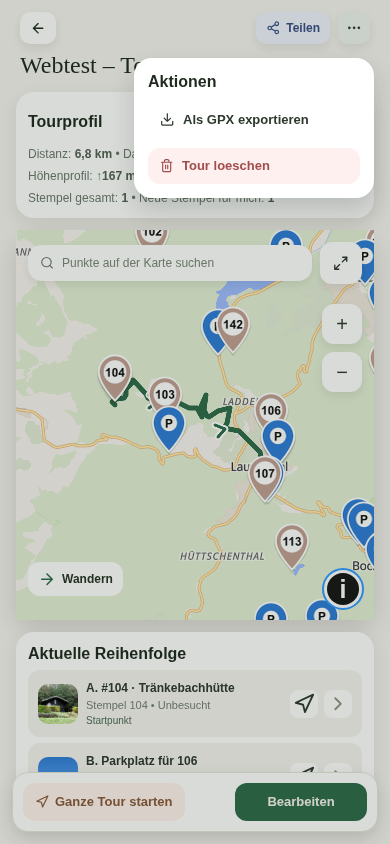
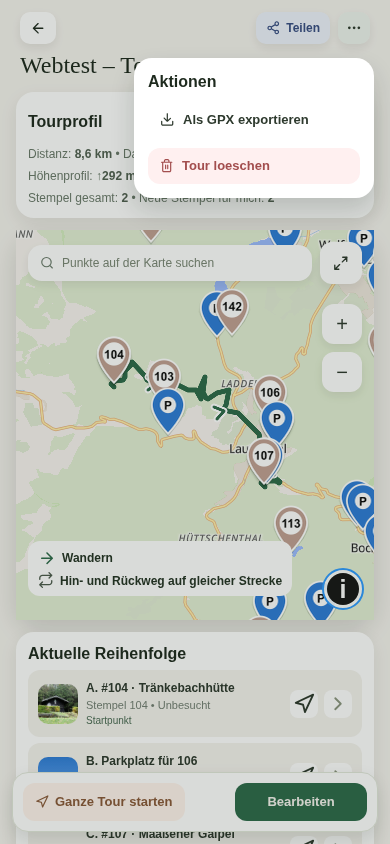
feat(app): Choose connected route or individual stages for GPX export

diff --git a/app/components/tour-gpx-export.tsx b/app/components/tour-gpx-export.tsx
@@ -1,19 +1,22 @@
 import React, { useState } from 'react';
 import { Feather } from '@expo/vector-icons';
-import { Alert, Pressable, StyleSheet, Text } from 'react-native';
+import { Alert, Pressable, StyleSheet, Text, View } from 'react-native';
 import type { TourPathEntry } from '@/lib/api';
-import { buildTourGpx } from '@/lib/tour-gpx';
+import { buildTourGpx, type TourGpxMode } from '@/lib/tour-gpx';
 import { shareGpx } from '@/lib/share-gpx';
 
 export function TourGpxExport({ name, path, disabled = false, onExported }: {
   name: string; path: TourPathEntry[]; disabled?: boolean; onExported?: () => void;
 }) {
   const [busy, setBusy] = useState(false);
-  async function handleExport() {
+  const [choosing, setChoosing] = useState(false);
+  async function handleExport(mode: TourGpxMode) {
+    if (busy || disabled) return;
     setBusy(true);
     try {
-      const file = buildTourGpx(name, path);
+      const file = buildTourGpx(name, path, mode);
       await shareGpx(file.fileName, file.content);
+      setChoosing(false);
       onExported?.();
     } catch (error) {
       Alert.alert('GPX-Export nicht möglich', error instanceof Error ? error.message : 'Bitte versuche es erneut.');
@@ -21,9 +24,29 @@ export function TourGpxExport({ name, path, disabled = false, onExported }: {
       setBusy(false);
     }
   }
+  if (choosing) return <View style={styles.choices}>
+    <Text style={styles.question}>Wie möchtest du exportieren?</Text>
+    <Pressable accessibilityRole="button" accessibilityLabel="Verbundene Route"
+      disabled={disabled || busy} accessibilityState={{ disabled: disabled || busy, busy }}
+      onPress={() => void handleExport('connected')} style={[styles.choice, (disabled || busy) && styles.disabled]}>
+      <Text style={styles.label}>Verbundene Route</Text>
+      <Text style={styles.description}>Eine Tour mit allen Etappen, inklusive Autofahrten. Lücken werden direkt verbunden.</Text>
+    </Pressable>
+    <Pressable accessibilityRole="button" accessibilityLabel="Einzelne Etappen"
+      disabled={disabled || busy} accessibilityState={{ disabled: disabled || busy, busy }}
+      onPress={() => void handleExport('stages')} style={[styles.choice, (disabled || busy) && styles.disabled]}>
+      <Text style={styles.label}>Einzelne Etappen</Text>
+      <Text style={styles.description}>Jede Etappe als eigene Tour in einer GPX-Datei.</Text>
+    </Pressable>
+    {busy ? <Text accessibilityLiveRegion="polite" style={styles.description}>Exportiert …</Text> : null}
+    <Pressable accessibilityRole="button" accessibilityLabel="GPX-Export abbrechen"
+      disabled={busy} onPress={() => setChoosing(false)} style={styles.button}>
+      <Text style={styles.label}>Abbrechen</Text>
+    </Pressable>
+  </View>;
   return <Pressable accessibilityRole="button" accessibilityLabel="Tour als GPX exportieren"
     accessibilityState={{ disabled: disabled || busy, busy }} disabled={disabled || busy}
-    onPress={() => void handleExport()} style={[styles.button, (disabled || busy) && styles.disabled]}>
+    onPress={() => setChoosing(true)} style={[styles.button, (disabled || busy) && styles.disabled]}>
     <Feather name="download" size={15} color="#2e3a2e" />
     <Text style={styles.label}>{busy ? 'Exportiert …' : 'Als GPX exportieren'}</Text>
   </Pressable>;
@@ -32,4 +55,8 @@ const styles = StyleSheet.create({
   button: { paddingHorizontal: 12, paddingVertical: 10, borderRadius: 12, flexDirection: 'row', alignItems: 'center', gap: 8 },
   label: { color: '#2e3a2e', fontSize: 13, lineHeight: 16, fontWeight: '600' },
   disabled: { opacity: 0.5 },
+  choices: { gap: 8 },
+  question: { color: '#2e3a2e', fontSize: 14, fontWeight: '600' },
+  choice: { paddingHorizontal: 12, paddingVertical: 10, gap: 4, borderWidth: 1, borderColor: '#e4e8e4', borderRadius: 12 },
+  description: { color: '#6b7a6b', fontSize: 12, lineHeight: 17 },
 });

diff --git a/app/__tests__/tour-gpx-export.test.tsx b/app/__tests__/tour-gpx-export.test.tsx
@@ -4,13 +4,37 @@ import { fireEvent, render, waitFor } from '@testing-library/react-native';
 import { TourGpxExport } from '@/components/tour-gpx-export';
 import { shareGpx } from '@/lib/share-gpx';
 jest.mock('@/lib/share-gpx', () => ({ shareGpx: jest.fn().mockResolvedValue(undefined) }));
+beforeEach(() => jest.clearAllMocks());
 test('reports missing geometry and never shares a misleading file', async () => {
   const alert = jest.spyOn(Alert, 'alert').mockImplementation(() => {});
   const view = render(<TourGpxExport name="Harz" path={[]} />);
   fireEvent.press(view.getByLabelText('Tour als GPX exportieren'));
+  fireEvent.press(view.getByLabelText('Verbundene Route'));
   await waitFor(() => expect(alert).toHaveBeenCalledWith('GPX-Export nicht möglich', expect.any(String)));
   expect(shareGpx).not.toHaveBeenCalled();
   alert.mockRestore();
+});
+test('asks before exporting and allows cancellation without sharing', () => {
+  const view = render(<TourGpxExport name="Harz" path={[]} />);
+  fireEvent.press(view.getByLabelText('Tour als GPX exportieren'));
+  expect(view.getByLabelText('Verbundene Route')).toBeTruthy();
+  expect(view.getByLabelText('Einzelne Etappen')).toBeTruthy();
+  expect(shareGpx).not.toHaveBeenCalled();
+  fireEvent.press(view.getByLabelText('GPX-Export abbrechen'));
+  expect(view.getByLabelText('Tour als GPX exportieren')).toBeTruthy();
+  expect(shareGpx).not.toHaveBeenCalled();
+});
+test.each([['Verbundene Route', 1], ['Einzelne Etappen', 2]])('exports the chosen format: %s', async (label, tracks) => {
+  const path = [1, 2].map(rank => ({ rank, tour_ID: 'tour', travelTime_ID: String(rank), travelTime: {
+    ID: String(rank), positionString: '10;51;0;11;52;0', durationSeconds: null,
+    distanceMeters: null, elevationGain: null, elevationLoss: null,
+  } }));
+  const onExported = jest.fn();
+  const view = render(<TourGpxExport name="Harz" path={path} onExported={onExported} />);
+  fireEvent.press(view.getByLabelText('Tour als GPX exportieren'));
+  fireEvent.press(view.getByLabelText(String(label)));
+  await waitFor(() => expect(onExported).toHaveBeenCalledTimes(1));
+  expect((shareGpx as jest.Mock).mock.calls[0][1].match(/<trk>/g)).toHaveLength(Number(tracks));
 });
 test('disabled while saved route is being refreshed', () => {
   const view = render(<TourGpxExport name="Harz" path={[]} disabled />);

diff --git a/app/lib/tour-gpx.ts b/app/lib/tour-gpx.ts
@@ -27,19 +27,29 @@ export function parseTourGeometry(positionString?: string) {
   return points;
 }
 
-export function buildTourGpx(name: string, path: TourPathEntry[]) {
+export type TourGpxMode = 'stages' | 'connected';
+
+export function buildTourGpx(name: string, path: TourPathEntry[], exportMode: TourGpxMode = 'stages') {
   if (!path.length) {
     throw new Error('Für diese Tour sind noch keine Wegdaten verfügbar.');
   }
-  const tracks = [...path].sort((a, b) => a.rank - b.rank).map((entry, index) => {
+  const legs = [...path].sort((a, b) => a.rank - b.rank).map((entry) => {
     const points = parseTourGeometry(entry.travelTime?.positionString);
     const mode = entry.travelTime?.travelMode ?? '';
     const type = /drive|car|motor|vehicle|auto/i.test(mode) ? 'driving' : 'hiking';
-    // Separate tracks preserve travel modes and avoid inventing links between disjoint legs.
-    return `  <trk><name>${xml(name)} – Etappe ${index + 1}</name><type>${type}</type><trkseg>\n${
+    return { points, type };
+  });
+  const track = (title: string, points: ReturnType<typeof parseTourGeometry>, type?: string) =>
+    `  <trk><name>${xml(title)}</name>${type ? `<type>${type}</type>` : ''}<trkseg>\n${
       points.map(point => `    <trkpt lat="${point.latitude}" lon="${point.longitude}"/>`).join('\n')
     }\n  </trkseg></trk>`;
-  });
+  const points = legs.flatMap(leg => leg.points).filter((point, index, all) =>
+    index === 0 || point.latitude !== all[index - 1].latitude || point.longitude !== all[index - 1].longitude);
+  // A single track AND segment makes importers see one continuous tour. The UI
+  // explicitly explains that this also joins gaps and includes driving legs.
+  const tracks = exportMode === 'connected'
+    ? [track(name, points, legs.every(leg => leg.type === legs[0].type) ? legs[0].type : undefined)]
+    : legs.map((leg, index) => track(`${name} – Etappe ${index + 1}`, leg.points, leg.type));
   return {
     fileName: `${name.normalize('NFC').replace(/[^\p{L}\p{N}_-]+/gu, '-').replace(/^-|-$/g, '').slice(0, 80) || 'Tour'}.gpx`,
     content: `<?xml version="1.0" encoding="UTF-8"?>\n<gpx version="1.1" creator="Harzer Wander Buddy" xmlns="http://www.topografix.com/GPX/1/1">\n  <metadata><name>${xml(name)}</name></metadata>\n${tracks.join('\n')}\n</gpx>\n`,

diff --git a/app/__tests__/tour-gpx.test.ts b/app/__tests__/tour-gpx.test.ts
@@ -29,3 +29,24 @@ test('retains valid zero and negative coordinates and strips illegal XML control
   expect(parseTourGeometry('0;0;0;-1;-2;0')).toEqual([{ latitude: 0, longitude: 0 }, { latitude: -2, longitude: -1 }]);
   expect(buildTourGpx('A\u0000B', [leg(1)]).content).toContain('<name>AB</name>');
 });
+
+test('connects ordered legs in one track and segment, deduplicating shared endpoints', () => {
+  const path = [leg(2, '10.2;51.2;0;10.3;51.3;0'), leg(1)];
+  const { content } = buildTourGpx('Harz', path, 'connected');
+  expect(content.match(/<trk>/g)).toHaveLength(1);
+  expect(content.match(/<trkseg>/g)).toHaveLength(1);
+  expect(content.match(/<trkpt /g)).toHaveLength(3);
+  expect(content.indexOf('lat="51.1"')).toBeLessThan(content.indexOf('lat="51.3"'));
+  expect(content).toContain('<name>Harz</name><type>hiking</type>');
+  expect(path[0].rank).toBe(2);
+});
+
+test('includes driving legs and gaps in the connected route without declaring everything hiking', () => {
+  const { content } = buildTourGpx('Harz', [leg(1), leg(2, '11;52;0;12;53;0', 'car')], 'connected');
+  expect(content.match(/<trk>/g)).toHaveLength(1);
+  expect(content.match(/<trkseg>/g)).toHaveLength(1);
+  expect(content.match(/<trkpt /g)).toHaveLength(4);
+  expect(content).not.toContain('<type>');
+  expect(content).toContain('lat="53" lon="12"');
+  expect(() => buildTourGpx('Harz', [leg(1), leg(2, '')], 'connected')).toThrow();
+});

diff --git a/docs/screenshots/tour-gpx/capture.py b/docs/screenshots/tour-gpx/capture.py
@@ -4,6 +4,7 @@ import json
 import os
 from pathlib import Path
 import urllib.request
+import xml.etree.ElementTree as ET
 
 from playwright.sync_api import sync_playwright
 
@@ -27,13 +28,18 @@ def api(path, data=None, method=None):
 
 
 # Only the local test backend is used. No browser storage or tokens are saved.
-leg = api("TravelTimes?$filter=travelMode%20eq%20'walk'&$top=1")['value'][0]
-stamp = api(f"Stampboxes?$filter=ID%20eq%20{leg['fromPoi']}&$top=1")['value'][0]
+routes = api("TravelTimes?$select=ID,fromPoi,toPoi&$filter=travelMode%20eq%20'walk'&$top=10000")['value']
+stamps = {stamp['ID']: stamp for stamp in api('Stampboxes?$select=ID,name,heroImageUrl,image&$top=500')['value']}
+by_start = {route['fromPoi']: route for route in routes}
+first = next(route for route in routes if route['fromPoi'] in stamps and route['toPoi'] in by_start)
+leg = api(f"TravelTimes({first['ID']})")
+next_leg = by_start[leg['toPoi']]
+stamp = stamps[leg['fromPoi']]
 profile = api('getCurrentUser()')
 api(f"Users('{profile['ID']}')", {'onboardingCompleted': True}, 'PATCH')
 name = 'Webtest – Tour im Harz'
-tour = api('Tours', {'name': name, 'idListTravelTimes': leg['ID']})
-saved = api('updateTourByPOIList', {'TourID': tour['ID'], 'POIList': f"{leg['fromPoi']};{leg['toPoi']}"})
+tour = api('Tours', {'name': name, 'idListTravelTimes': f"{leg['ID']};{next_leg['ID']}"})
+saved = api('updateTourByPOIList', {'TourID': tour['ID'], 'POIList': f"{leg['fromPoi']};{leg['toPoi']};{next_leg['toPoi']}"})
 assert saved['path'][0]['travelTime']['positionString'] == leg['positionString']
 
 with sync_playwright() as playwright:
@@ -80,12 +86,25 @@ with sync_playwright() as playwright:
         page.get_by_role('button', name='Tour als GPX exportieren').wait_for()
         page.wait_for_timeout(500)
         page.screenshot(path=str(OUTPUT / '02-actions-menu.png'))
-        with page.expect_download() as event:
+        page.get_by_role('button', name='Tour als GPX exportieren').click()
+        page.get_by_role('button', name='Verbundene Route', exact=True).wait_for()
+        page.wait_for_timeout(300)
+        page.screenshot(path=str(OUTPUT / '06-export-choice.png'))
+        # Cancel does not download; both export modes are then tested with two legs.
+        page.get_by_role('button', name='GPX-Export abbrechen').click()
+        for label, tracks in [('Verbundene Route', 1), ('Einzelne Etappen', 2)]:
             page.get_by_role('button', name='Tour als GPX exportieren').click()
-        download = event.value
-        assert download.suggested_filename.endswith('.gpx')
-        content = Path(download.path()).read_text()
-        assert '<trkpt lat=' in content and 'http://www.topografix.com/GPX/1/1' in content
+            with page.expect_download() as event:
+                page.get_by_role('button', name=label, exact=True).click()
+            download = event.value
+            assert download.suggested_filename.endswith('.gpx')
+            root = ET.parse(download.path()).getroot()
+            ns = {'g': 'http://www.topografix.com/GPX/1/1'}
+            assert len(root.findall('g:trk', ns)) == tracks
+            assert len(root.findall('.//g:trkseg', ns)) == tracks
+            assert len(root.findall('.//g:trkpt', ns)) > 2
+            if tracks == 1:
+                page.get_by_role('button', name='Aktionen', exact=True).click()
         page.get_by_text('Bearbeiten', exact=True).click()
         page.wait_for_timeout(500)
         page.screenshot(path=str(OUTPUT / '03-edit-route.png'))
@@ -103,6 +122,6 @@ with sync_playwright() as playwright:
         page.wait_for_timeout(300)
         assert page.locator('.leaflet-marker-icon[aria-pressed="true"]').count() == 0
         page.screenshot(path=str(OUTPUT / '05-dismissed-marker.png'))
-        print('Real route, GPX menu/download and transparent-corner deselection verified.')
+        print('Real route, export choice/cancellation, both GPX formats and marker deselection verified.')
     finally:
         browser.close()

diff --git a/docs/screenshots/tour-gpx/README.md b/docs/screenshots/tour-gpx/README.md
@@ -6,8 +6,9 @@ These are screenshots of the complete production RN-Web screens against a local 
 - `02-actions-menu.png`: neutral GPX action inside the top-right overflow menu.
 - `03-edit-route.png`: route remains visible while editing.
 - `04-selected-marker.png` and `05-dismissed-marker.png`: selecting a marker and dismissing it by clicking its transparent lower corner.
+- `06-export-choice.png`: choosing between one connected route and individual stages before download.
 
-The capture uses the actual menu button and checks the downloaded GPX filename/content. It also asserts that the transparent corner hits the map and the selection disappears. The backend integration test separately checks geometry after saving a tour with repeated stops.
+The capture uses a two-leg fixture and the actual menu buttons. It checks cancellation, both downloaded GPX formats (one track/segment versus two), filename/content, and that clicking a transparent marker corner dismisses the selection. The backend integration test separately checks geometry after saving a tour with repeated stops.
 
 Reproduce from the repository root with the local database, the test account from `AGENTS.md`, Python Playwright and Chromium. Build the same configuration used by PR previews:
 
@@ -23,6 +24,8 @@ In a second terminal, set `HWB_TEST_USERNAME` and `HWB_TEST_PASSWORD` to the loc
 
 Validation: 54 Jest suites / 286 tests, 30 backend tests, TypeScript, targeted ESLint, web export, actual browser download and marker dismissal passed. Both the user-supplied XML (2 tracks / 352 points) and an actual browser download validate against the official GPX 1.1 XSD. The supplied attachment was named `.bin`; its XML is valid and does not need coordinate changes.
 
-Native exports previously deleted the cached file as soon as the share sheet resolved. Receiving apps can read later, so exports now remain in separate cache directories with their `.gpx` filename and GPX MIME type; the OS can reclaim them later. Native sharing is covered by unit tests, but a real Android/iOS Komoot import still requires device validation.
+The export-choice change additionally passed 17 targeted Jest tests, TypeScript, targeted ESLint, web export and actual browser downloads of both formats. The user confirmed that Komoot successfully imports the original stage-based export and offers its separate tracks as individual tours. The connected mode still requires a Komoot import check on a device.
 
-GPX exports every saved leg in rank order as a separate track, including driving legs marked `driving`. Missing or invalid geometry blocks export; no straight-line substitute or fabricated elevation is written. The export uses cached tour data when present and requires no backend write.
+Native exports previously deleted the cached file as soon as the share sheet resolved. Receiving apps can read later, so exports now remain in separate cache directories with their `.gpx` filename and GPX MIME type; the OS can reclaim them later. Native sharing is covered by unit tests.
+
+Every export asks for its format. Individual stages preserve each saved leg as a separate track, including driving legs marked `driving`. Connected mode creates exactly one track with one segment in rank order and removes consecutive duplicate coordinates. It includes driving legs and directly joins any gaps; the selection explains this. Mixed hiking/driving tours do not declare the whole track as hiking. Missing or invalid geometry blocks both formats, and no fabricated elevation is written. The export uses cached tour data when present and requires no backend write.
